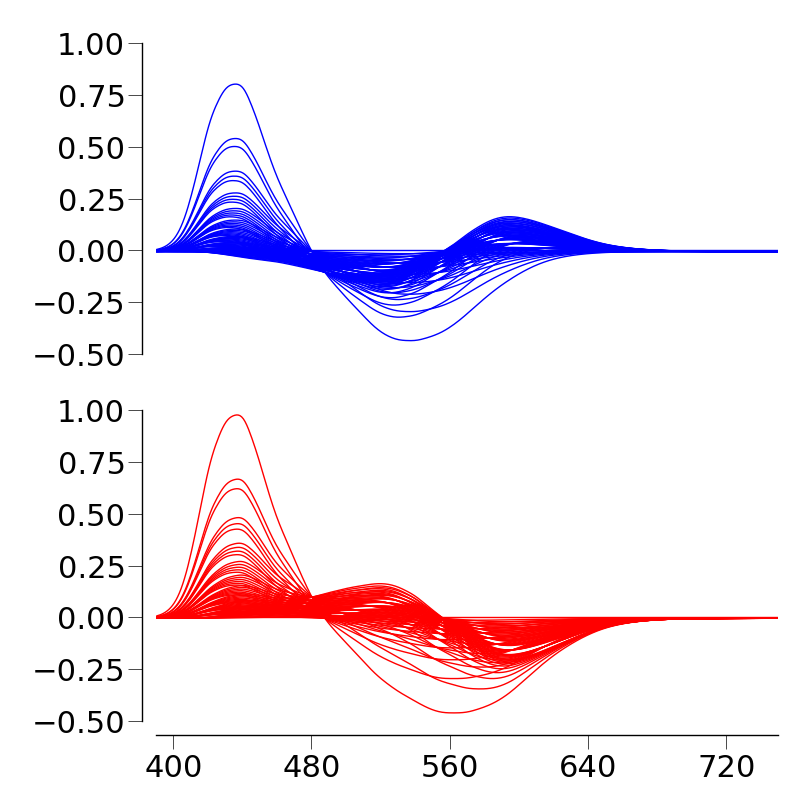
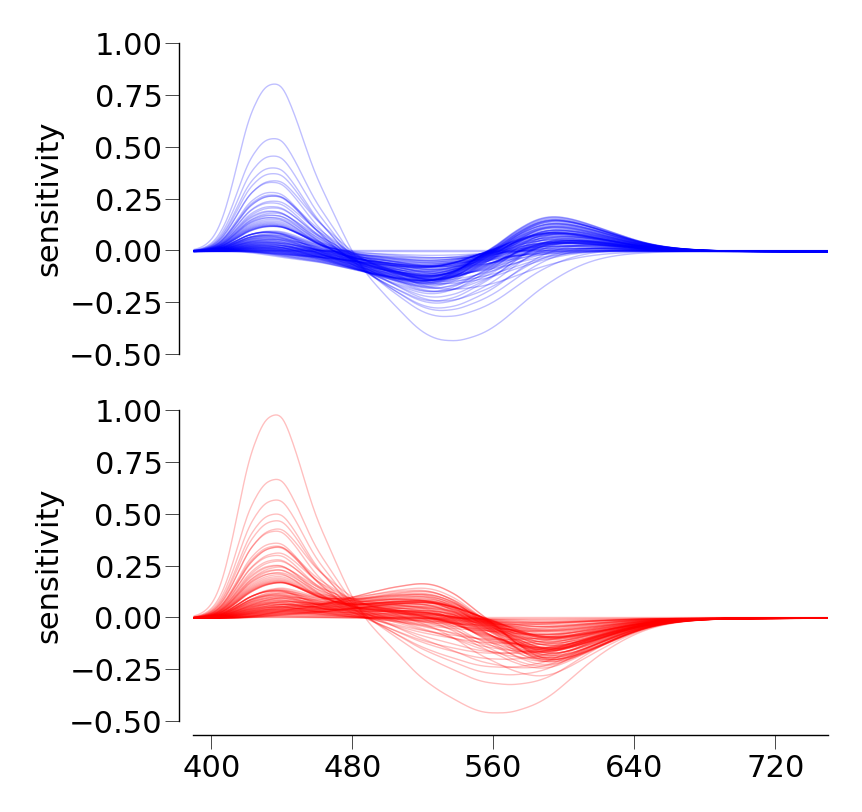
a day of changes, no gain

diff --git a/colorModel.py b/colorModel.py
@@ -13,7 +13,7 @@ from sompy import SOM
 class colorModel():
 
     def __init__(self,
-                ConeRatio={'fracLvM': 0.80, 's': 0.05, },
+                ConeRatio={'fracLvM': 0.5, 's': 0.05, },
                 maxSens={'l': 559.0, 'm': 530.0, 's': 417.0, }):
 
         self.test = True
@@ -64,17 +64,19 @@ class colorModel():
                 else:
                     zero_cross = np.where(np.diff(np.sign(RG)))[0]
                     uniqueGreen.append(lambdas[zero_cross[0]])
-                    uniqueRed.append(lambdas[np.argmin(RG)])
+                    uniqueRed.append(lambdas[np.argmax(RG)])
 
                 if i == 100:
                     uniqueBlue.append(420)
                     uniqueYellow.append(555)
                 else:
                     zero_cross = np.where(np.diff(np.sign(BY)))[0]
-                    #uniqueBlue.append(lambdas[np.argmin(BY)])
+                    print zero_cross
                     uniqueBlue.append(lambdas[zero_cross[0]])
-                    uniqueYellow.append(lambdas[zero_cross[1]])
-
+                    try:
+                        uniqueYellow.append(lambdas[zero_cross[1]])
+                    except:
+                        uniqueYellow.append(599)
                 LMratio.append(i)
 
         self.uniqueHues = {
@@ -124,56 +126,48 @@ class colorModel():
             'm': self.FirstStage['M_cones'],
             'l': self.FirstStage['L_cones'], }
 
-        self.SecondStage = {'lmsV_L': {}, 'lmsV_M': {}, 'ratio': {}, }
+        self.SecondStage = {'lmsV_L': {}, 'lmsV_M': {}, 'percent': {}, }
         i = 0
         for s in range(0, 101, self.step):
             for m in range(0, 101, self.step):
                 for l in range(0, 101, self.step):
                     if (l + m + s) == 100:
-                        ratio = {'s': s, 'm': m, 'l': l, }
-                        lmsV_L = self.optimizeChannel(cones, ratio,
+                        percent = {'s': s, 'm': m, 'l': l, }
+                        lmsV_L = self.optimizeChannel(cones, percent,
                                                         Center=L_cones)
-                        lmsV_M = self.optimizeChannel(cones, ratio,
+                        lmsV_M = self.optimizeChannel(cones, percent,
                                                         Center=M_cones)
                         self.SecondStage['lmsV_L'][i] = lmsV_L
                         self.SecondStage['lmsV_M'][i] = lmsV_M
-                        self.SecondStage['ratio'][i] = ratio
+                        self.SecondStage['percent'][i] = percent
                         i += 1
 
-    def genThirdStage(self):
+    def genThirdStage(self, plotGaussians=False):
         """Compute the third stage in the model
         """
 
-        poisson = lambda mu, k: (np.exp(-mu) * mu ** k) / factorial(k)
-        gauss = lambda mu, k, SD: (np.exp(-1 * ((k - mu) ** 2) / (2 * SD) ** 2))
-        gaussS, gaussS1, gaussM, gaussL = [], [], [], []
-        for i in range(0, 101, self.step):
-            gaussS1.append(gauss(0, i, 0.5))
-            gaussS.append(gauss(self.sRatio * 100., i, 0.5) + gaussS1[i])
-            gaussM.append(gauss(self.mRatio * 100., i, 1))
-            gaussL.append(gauss(self.lRatio * 100., i, 1))
+        #poisson = lambda mu, k: (np.exp(-mu) * mu ** k) / factorial(k)
+        gauss = lambda mu, x, SD: 1. / (SD * (2. * np.pi) ** 0.5) * np.exp(-
+                                        (x - mu) ** 2. / (2. * SD ** 2.))
+        binom = lambda k, n, p: ((factorial(n) /
+                                (factorial(k) * factorial(n - k))
+                                    * (p ** k)) * (1 - p) ** (n - k))
 
-        gaussS = gaussS / sum(gaussS)
-        gaussM = gaussM / sum(gaussM)
-        gaussL = gaussL / sum(gaussL)
-        '''
-        plt.figure()
-        plt.plot(range(0, 101, self.step), gaussS, 'b', linewidth=3)
-        plt.plot(range(0, 101, self.step), gaussM, 'g', linewidth=3)
-        plt.plot(range(0, 101, self.step), gaussL, 'r', linewidth=3)
-        plt.show()
-        '''
-        if self.test:
-            if self.mRatio != 0 and self.lRatio != 0:
-                if round(sum(gaussS) + sum(gaussM) + sum(gaussL), 5) != 3.0:
-                    print 'sum s: ', sum(gaussS)
-                    print 'sum m: ', sum(gaussM)
-                    print 'sum l: ', sum(gaussL)
-                    raise ValueError('gaussian prob distributions \
-                        must sum to 1')
+        gaussS = []
+        for i in range(0, 101, self.step):
+            gaussS.append(gauss(self.sRatio * 100., i, 2))  # + gaussS1[i])
+
+        if plotGaussians:
+            fig = plt.figure()
+            ax = fig.add_subplot(111)
+            pf.AxisFormat()
+            pf.TufteAxis(ax, ['left', 'bottom'], Nticks=[5, 5])
+            ax.plot(range(0, 101, self.step), gaussS, 'b', linewidth=3)
+            plt.tight_layout()
+            plt.show()
 
         lCenterProb = self.lRatio / (self.mRatio + self.lRatio)
-        print lCenterProb
+
         self.ThirdStage = {
             'mCenter': np.zeros(len(self.SecondStage['lmsV_L'][0])),
             'lCenter': np.zeros(len(self.SecondStage['lmsV_M'][0])),
@@ -182,31 +176,37 @@ class colorModel():
             }
         p = 0
         for i in self.SecondStage['lmsV_L']:
-            lRat = self.SecondStage['ratio'][i]['l'] / self.step
-            mRat = self.SecondStage['ratio'][i]['m'] / self.step
-            sRat = self.SecondStage['ratio'][i]['s'] / self.step
+            lNum = self.SecondStage['percent'][i]['l']
+            mNum = self.SecondStage['percent'][i]['m']
+            sNum = self.SecondStage['percent'][i]['s']
 
-            prob = (gaussS[sRat] * gaussM[mRat] * gaussL[lRat])
-            p += prob
+            probSur = (gauss(self.sRatio * 100, sNum / self.step, 2) *
+                            binom(lNum, lNum + mNum, self.lRatio))
+
+            p += probSur
             lCenter = self.SecondStage['lmsV_L'][i]
             mCenter = self.SecondStage['lmsV_M'][i]
 
-            self.ThirdStage['mCenter'] += mCenter * prob * (1 - lCenterProb)
-            self.ThirdStage['lCenter'] += lCenter * prob * (lCenterProb)
+            self.ThirdStage['mCenter'] += mCenter * probSur * (1 - lCenterProb)
+            self.ThirdStage['lCenter'] -= lCenter * probSur * (lCenterProb)
 
-        '''
-        self.ThirdStage['blueYellow'] = (self.ThirdStage['lCenter'] -
+        self.ThirdStage['blueYellow'] = (-1 * self.ThirdStage['mCenter'] -
+                                        -1 * self.ThirdStage['lCenter'])
+        self.ThirdStage['redGreen'] = (self.ThirdStage['lCenter'] -
                                         self.ThirdStage['mCenter'])
-        self.ThirdStage['redGreen'] = -1 * (self.ThirdStage['lCenter'] -
-                                        self.ThirdStage['mCenter'])
-        '''
-        #print p
 
-    def optimizeChannel(self, cones, ratio, Center):
+        print self.sRatio, lCenterProb, 'prob :', p
 
-        fun = lambda w, Center: (w * (ratio['s'] * cones['s'] +
-                                    ratio['m'] * cones['m'] +
-                                    ratio['l'] * cones['l']) -
+        if self.test:
+            if round(p, 2) != 1.0:
+                print 'sum p: ', p
+                raise ValueError('prob distribution must sum to 1')
+
+    def optimizeChannel(self, cones, percent, Center):
+
+        fun = lambda w, Center: (w * (percent['s'] / 100. * cones['s'] +
+                                    percent['m'] / 100. * cones['m'] +
+                                    percent['l'] / 100. * cones['l']) -
                                  Center) / self.lensMacula
 
         # error function to minimize
@@ -217,7 +217,7 @@ class colorModel():
         if self.test:
             temp = err(w, Center)
             if temp > 1e-8:
-                print ratio
+                print percent
                 raise ValueError('error function not minimized properly')
 
         return out
@@ -290,13 +290,12 @@ class colorModel():
     def returnUniqueHues(self):
         return self.uniqueHues
 
-
 def plotModel(FirstStage, SecondStage, ThirdStage, UniqueHues):
     """Plot cone spectral sensitivies and first stage predictions.
     """
 
-    fig = plt.figure(figsize=(8, 9))
-    ax1 = fig.add_subplot(211)
+    fig = plt.figure(figsize=(8.5, 11))
+    ax1 = fig.add_subplot(311)
 
     pf.AxisFormat()
     pf.TufteAxis(ax1, ['left', ], Nticks=[5, 5])
@@ -310,44 +309,45 @@ def plotModel(FirstStage, SecondStage, ThirdStage, UniqueHues):
     ax1.set_ylim([-0.05, 1.05])
     ax1.set_xlim([FirstStage['wavelen']['startWave'],
                   FirstStage['wavelen']['endWave']])
-    #ax1.set_ylabel('sensitivity')
+    ax1.set_ylabel('sensitivity')
+    ax1.yaxis.set_label_coords(-0.2, 0.5)
 
+    if 'lCenter' in ThirdStage:
 
-    if 'redGreen' in ThirdStage:
+        ax2 = fig.add_subplot(312)
+        ax3 = fig.add_subplot(313)
+        pf.TufteAxis(ax2, ['left', ], Nticks=[5, 5])
+        pf.TufteAxis(ax3, ['left', 'bottom'], Nticks=[5, 5])
 
-        ax2 = fig.add_subplot(212)
-        pf.TufteAxis(ax2, ['left', 'bottom'], Nticks=[5, 5])
         ax2.plot(FirstStage['lambdas'], ThirdStage['lCenter'],
                 'r', linewidth=3)
         ax2.plot(FirstStage['lambdas'], ThirdStage['mCenter'],
                 'b', linewidth=3)
-        """
         ax2.plot(FirstStage['lambdas'], -1 * ThirdStage['lCenter'],
                 'g', linewidth=3)
         ax2.plot(FirstStage['lambdas'], -1 * ThirdStage['mCenter'],
                 'y', linewidth=3)
 
-        ax3 = fig.add_subplot(313)
-        pf.TufteAxis(ax3, ['left', 'bottom'], Nticks=[5, 5])
-        ax3.plot(FirstStage['lambdas'], ThirdStage['redGreen'],
+        ax3.plot(FirstStage['lambdas'], -1 * ThirdStage['redGreen'],
                 'r', linewidth=3)
-        ax3.plot(FirstStage['lambdas'], ThirdStage['blueYellow'],
+        ax3.plot(FirstStage['lambdas'], -1 * ThirdStage['blueYellow'],
                 'b', linewidth=3)
-        """
+
     ax2.set_xlim([FirstStage['wavelen']['startWave'],
                      FirstStage['wavelen']['endWave']])
-    """
+
     ax3.set_xlim([FirstStage['wavelen']['startWave'],
                      FirstStage['wavelen']['endWave']])
-    """
-    #ax3.set_ylabel('activity')
-    ax2.set_xlabel('wavelength (nm)')
+
+    ax2.set_ylabel('activity')
+    ax2.yaxis.set_label_coords(-0.2, 0.5)
+    ax3.set_xlabel('wavelength (nm)')
 
     plt.tight_layout()
     plt.show()
 
     if 'lmsV_L' in SecondStage:
-        fig = plt.figure(figsize=(8, 8))
+        fig = plt.figure(figsize=(8.5, 8))
         ax1 = fig.add_subplot(211)
         ax2 = fig.add_subplot(212)
         pf.AxisFormat()
@@ -355,16 +355,20 @@ def plotModel(FirstStage, SecondStage, ThirdStage, UniqueHues):
         pf.TufteAxis(ax2, ['left', 'bottom'], Nticks=[5, 5])
 
         for i in SecondStage['lmsV_L']:
-            if i % 20 == 0:
+            if i % 50 == 0:
                 ax1.plot(FirstStage['lambdas'], SecondStage['lmsV_M'][i],
-                        'b', linewidth=1)
+                        'b', linewidth=1, alpha=0.25)
                 ax2.plot(FirstStage['lambdas'], SecondStage['lmsV_L'][i],
-                        'r', linewidth=1)
+                        'r', linewidth=1, alpha=0.25)
 
         ax1.set_xlim([FirstStage['wavelen']['startWave'],
                       FirstStage['wavelen']['endWave']])
         ax2.set_xlim([FirstStage['wavelen']['startWave'],
                       FirstStage['wavelen']['endWave']])
+
+        ax1.set_ylabel('sensitivity')
+        ax2.set_ylabel('sensitivity')
+
         plt.tight_layout()
         plt.show()
 
@@ -383,7 +387,7 @@ def plotModel(FirstStage, SecondStage, ThirdStage, UniqueHues):
         ax1.plot(UniqueHues['LMratio'], UniqueHues['yellow'],
                 'y', linewidth=3)
 
-        ax1.set_ylabel('wavelength (um)')
+        ax1.set_ylabel('wavelength ($\\mu$m)')
         ax1.set_xlabel('percent L vs M')
 
         plt.tight_layout()
